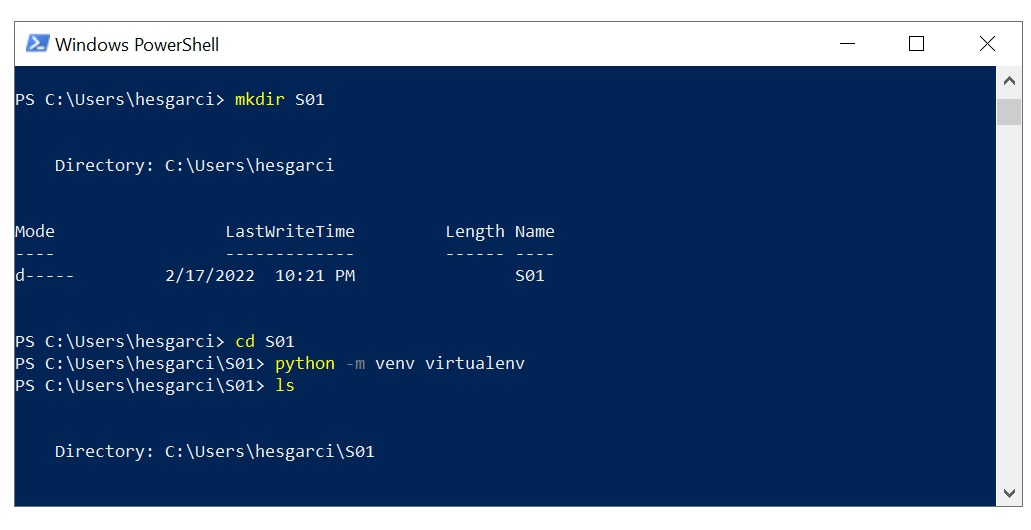
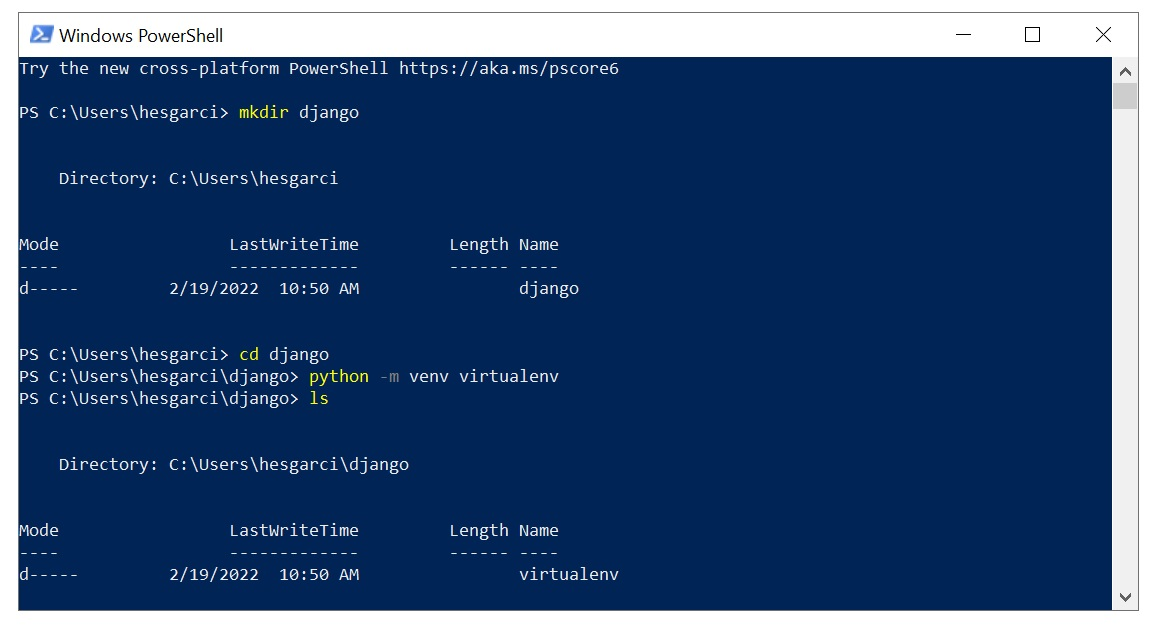
Ejemplo 1 - Terminado
Ejemplo 1

diff --git a/Sesion-01/Ejemplo-01/Readme.md b/Sesion-01/Ejemplo-01/Readme.md
@@ -7,33 +7,39 @@
 - Instalar Django en un entorno virtual
 - Conocer como distribuir entornos virtuales al equipo de desarrollo
 
-#### 2. Requisitos :clipboard:
+### 2. Requisitos :clipboard:
 
 1. Tener Python Instalado
 2. Tener Instalado PIP
 3. Tener una terminal configurada (PowerShell, WSL, etc)
 
-#### 3. Desarrollo :rocket:
+### 3. Desarrollo :rocket:
 
-1.  Abre una terminal. En esta primera pantalla escribiremos el comando para inicializar Python. Esto nos permitira verificar que tienes instalado y configurado el lenguaje.
+
+#### Activación del entorno virtual
+***
+Abre una terminal. En esta primera pantalla escribiremos el comando para inicializar Python. Esto nos permitira verificar que tienes instalado y configurado el lenguaje.
 
    ```console
    python
    ```
-Al correr el comando anterior deberiamos de poder visualizar la consola de python si todo está configurado adecuadamente. Saldremos de la consola utilizando Ctrl+Z. Posterior a esto crearemos un nuevo directorio llamado S01.
+Al correr el comando anterior deberiamos de poder visualizar la consola de python si todo está configurado adecuadamente. Saldremos de la consola utilizando Ctrl+Z. Posterior a esto crearemos un nuevo directorio llamado django.
 
    ```console
-   mkdir S01
+   mkdir django
    ```
-Nos dirigiremos a este utilizando el comando cd. Y una vez dentro de este inicializaremos un entorno virtual utilizando el el comando de python venv.
+Nos dirigiremos a este utilizando el comando cd. Y una vez dentro de este inicializaremos un entorno virtual utilizando el el comando de python venv. Además Podemos verificar la creación de un directorio nuevo utilizando el comando
 
    ```console
-   cd S01
+   cd django
    ```
 
    ```console
 python -m venv virtualenv
+ls
    ```
+
+
 
    ![](img/Ejemplo1_1.jpg)
  
@@ -44,22 +50,26 @@ python -m venv virtualenv
 La activación del entorno virtual varia dependiendo del sistema. Utiliza el comando segun corresponda:
 
 <p align="right">
-<img width="20px" src="img/mac.jpg">
-</p>
-
-   ```console
-   source bin/activate
-   ```
-<p align="right">
 	Windows - PowerShell
 </p>
 
+Ingresamos a la carpeta del ambiente virtual que creamos y corremos el comando ls para examinar los contenidos de la carpeta.
+   ```console
+cd .\virtualenv\Scripts\
+ls
+   ```
+
+![](img/Ejemplo1_2.jpg)
+
+El comando virtualenv creo una serie de archivos por nosotros. Además de agregar los archivos agrega las versiones necesarias y aisladas de python y pip. Para Iniciar nuestro ambiente debemos ejecutar el script .ps1 con el siguiente comando: 
+
+   ```console
+   .\Activate.ps1
+   ```
 > *__Nota:__ Para poder ejecutar scripts en PowerShell es necesario aplicar los permisos necesario en el sistema.*
 
-<details><summary>Agregar permisos a PowerShell</summary>
+<details><summary>Haz click aquí para saber como: Agregar permisos a PowerShell</summary>
 <p>
-
-
 En una consola de PowerShell escribe: 
 
     ```
@@ -69,70 +79,103 @@ En una consola de PowerShell escribe:
 </p>
 </details>
 
-   ![](img/2.png)
-
-   __Para desactivar el nuevo entorno se realiza con:__
+Para desactivar el ambiente puedes usar el comando deactivate:
 
    ```console
    deactivate 
    ```
-     ![](img/3.png)
+   ![](img/Ejemplo1_3.jpg)
 
-   __Activaremos nuevamente el entorno para continuar:__
+
+<p align="right">
+	UNIX - MacOS, Linux Terminal
+</p>
+Ingresa a la carpeta del ambiente virtual que creaste. En este caso el nombre de la carpeta es django.  Utiliza el comando source para activar el ambiente.
+
+<p align="right">
+<img width="20px" src="img/mac.jpg">
+</p>
 
    ```console
    source bin/activate
    ```
-   ***
 
-1. Se procede con la instalación del módulo / framework Django:
+   ![](img/2.png)
 
-   __La instalación se realiza con el comando pip dentro del entorno virtual:__
+Para desactivar el ambiente puedes usar el comando deactivate:
+
+<p align="right">
+<img width="20px" src="img/mac.jpg">
+</p>
 
    ```console
-   pip3 install django
+   deactivate
    ```
-   ![](img/4.png)
+   ![](img/3.png)
 
-   __La página principal del framework Django:__
-   - Sitio principal [https://www.djangoproject.com](https://docs.djangoproject.com/en/3.1/)
-   - Documentación oficial: [https://docs.djangoproject.com/en/3.1/](https://docs.djangoproject.com/en/3.1/)
-   ***
 
-1. Respaldando y restaurando un entorno virtual
+#### Instalación de Django
+***
+Una vez que hemos configurado el entorno virtual podemos instalar modulos en este. Para instalar Django utilizamos el comando pip dentro del entorno virtual:
 
-   __Para respaldar un entorno virtual se realiza con:__
+   ```console
+   pip install django
+   ```
+![](img/Ejemplo1_4.jpg)
+
+>*__Nota:__ Dependiendo de tu configuración de python el comando será pip o pip3 según corresponda*
+
+La instalación puede demorar algunos minutos pero al terminar habrás instalado Django en tu entorno virtual. Recuerda que este modulo será independiente a tu instalación root o del sistema.
+
+Para conocer la versión de los modulos que has instalado puedes utilizar el siguiente comando: 
+
+   ```console
+   pip freeze
+   ```
+  ![](img/Ejemplo1_5.jpg)
+
+  Para este ambiente virtual estamos utilizando Django en su versión 4. 
+
+ #### Generación del archivo requirements.txt
+*** 
+
+Un elemento importante cuando trabajamos con Python es el uso del archivo requerements.txt. Este archivo nos especifíca que modulos y sus versiones.
+
+Anteriormente vimos el resultado del comando pip freeze ahora especificaremos que su output o salida se escriba a un archivo .txt.
 
    ```console
    pip freeze > requeriments.txt
    ```
-
-   ![](img/5.png)
-
-   __Visualizamos el archivo generado con:__
+Podemos examinar la estructura de de nuestro directorio y utilizar el comando cat para verificar que se escribió correctamente el archivo.
 
    ```console
    cat requeriments.txt
    ```
 
-   ![](img/6.png)
+   ![](img/Ejemplo1_6.jpg)
 
+ #### Instalación del archivo requirements.txt
+***
+Cuando trabajamos en un equipo de trabajo debemos especificar los modulos y versiones que usamos. En el caso de que utilizemos un ambiente creado por alguien más. Recordemos siempre examinar su archivo requierements.txt.
 
-   __Para restaurar un entorno virtual se realiza con:__
+La siguiente captura es un ejemplo de un proyecto de ciencia de datos que especifica los diversos paquetes que se requieren para que el ambiente virtual funcione.
+
+   ![](img/Ejemplo1_7.jpg)
+
+Para instalar automáticamente estos paquetes y configurar nuestro ambiente virtual. Utilizamos el comando:
 
    ```console
-   pip3 install -r requeriments.txt
+   pip install -r requeriments.txt
    ```
-	
-   ![](img/7.png)
+ ![](img/Ejemplo1_8.jpg)
 
-   __Mostramos la lista de módulos instalados:__
+>*__Nota:__ -r indica a pip que estamos trabajando con archivos de requerimientos*
 
-   ```console
-   pip3 freeze
-   ```
-   
-   ![](img/8.png)
+#### <p align="Center">
+	¡Felicidades! Has configurado tu entorno virtual y el archivo requirements.txt :+1: :1st_place_medal:</p>
 
-   Ahora estamos listos para continuar con Django.
+___Referencias___
    ***
+
+   - Documentación Oficial Django: https://docs.djangoproject.com/
+   - Documentación Oficial PowerShell https://docs.microsoft.com/en-us/powershell/
